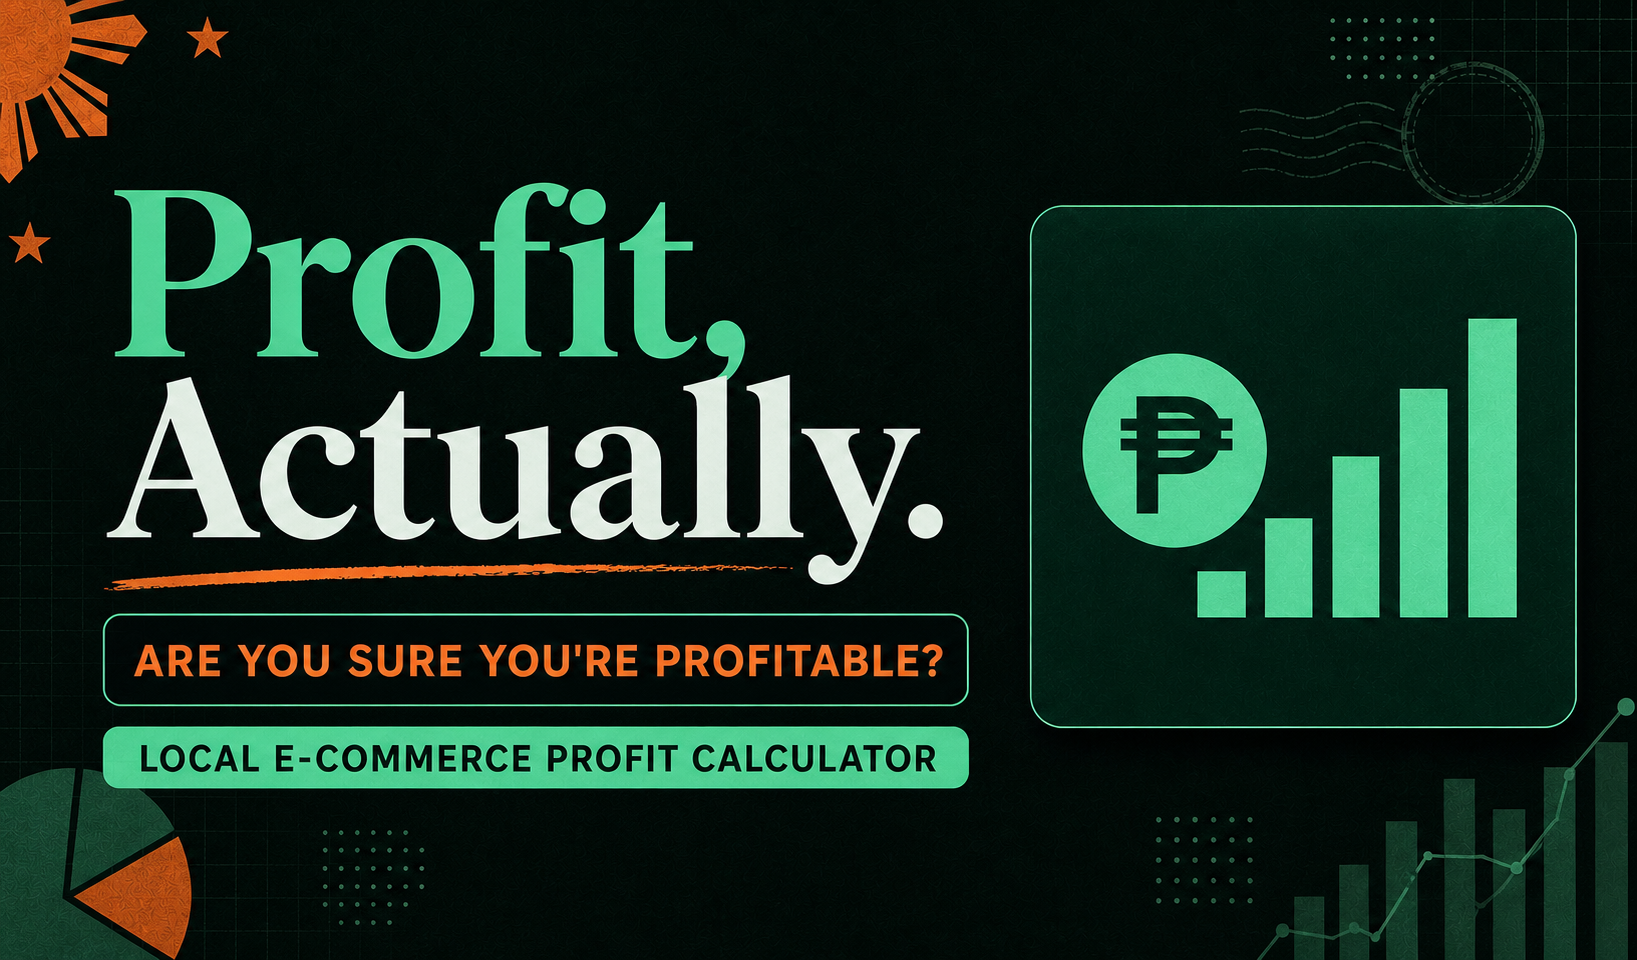
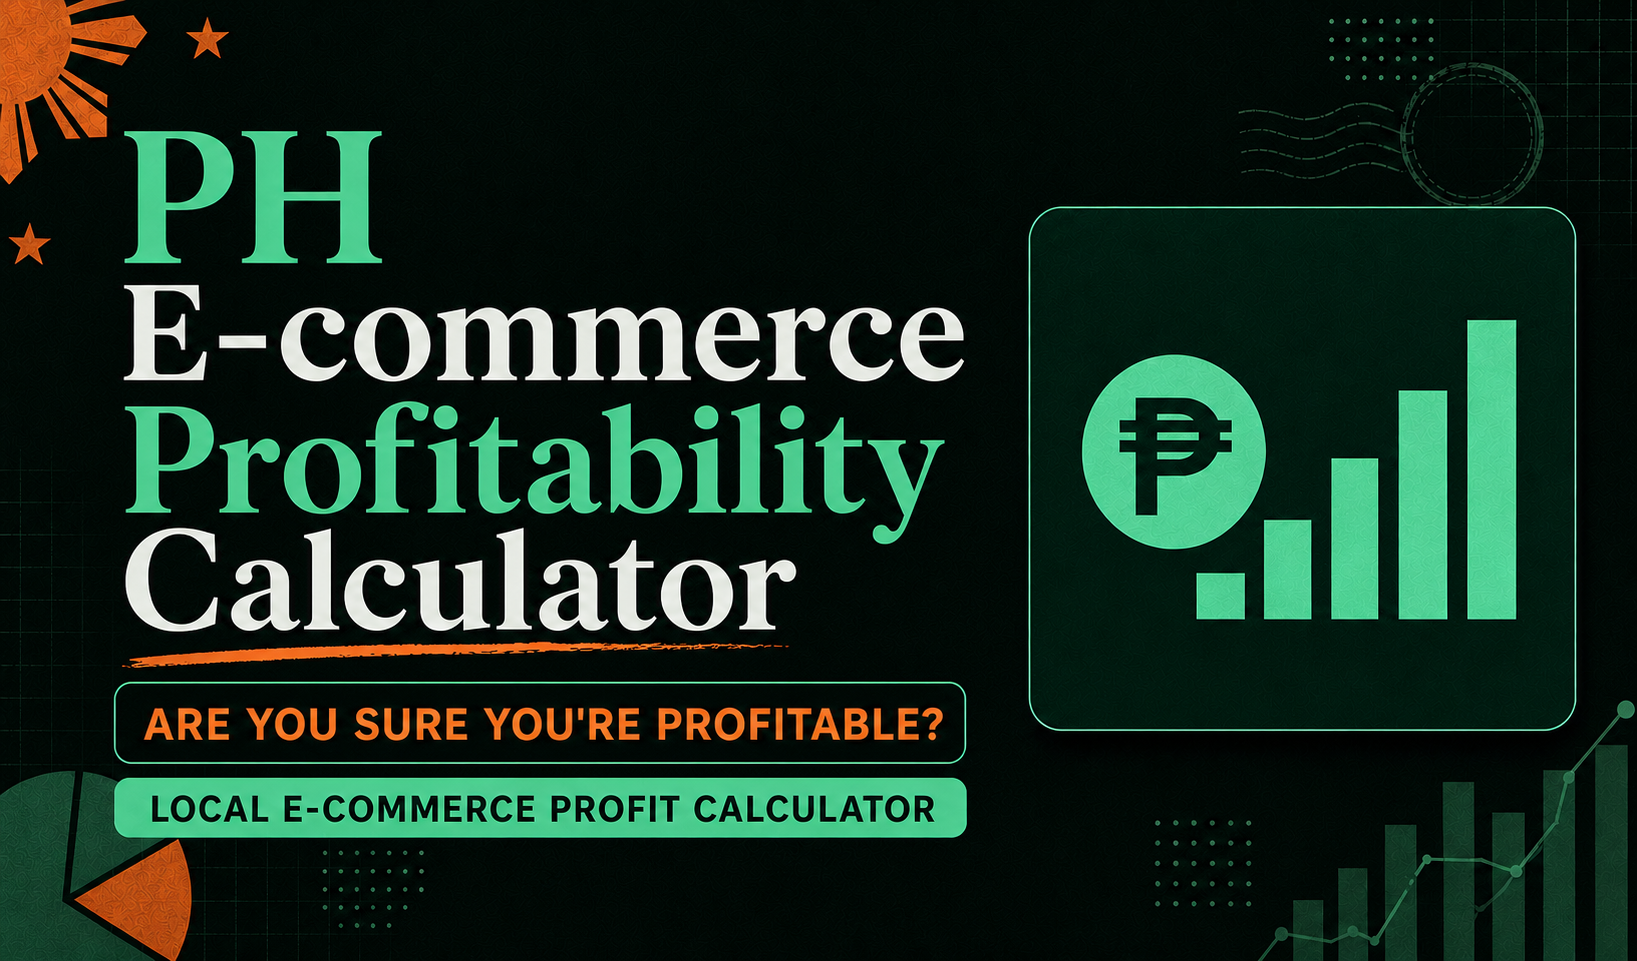
Publish PH e-commerce profitability calculator

diff --git a/public/index.html b/public/index.html
@@ -3,12 +3,12 @@
   <head>
     <meta charset="utf-8" />
     <meta name="viewport" content="width=device-width, initial-scale=1" />
-    <title>Profit, Actually. — Local E-commerce Profit Calculator</title>
+    <title>PH E-commerce Profitability Calculator</title>
     <meta
       name="description"
       content="A quick net income calculator for small Philippine e-commerce businesses, based on COD price, RTS rate, product cost, ad spend, and order volume."
     />
-    <meta property="og:title" content="Profit, Actually. — Are you sure you're profitable?" />
+    <meta property="og:title" content="PH E-commerce Profitability Calculator" />
     <meta property="og:description" content="Your quick local e-commerce profitability calculator." />
     <meta property="og:type" content="website" />
     <meta property="og:image" content="__SITE_ORIGIN__/og.png" />
@@ -19,10 +19,10 @@
   </head>
   <body>
     <header class="site-header">
-      <a class="brand" href="#top" aria-label="Profit, Actually home">
-        <span class="brand-mark" aria-hidden="true">P?</span>
+      <a class="brand" href="#top" aria-label="PH E-commerce Profitability Calculator home">
+        <span class="brand-mark" aria-hidden="true">PH</span>
         <span class="brand-copy">
-          <strong>Profit, Actually.</strong>
+          <strong>PH E-commerce Profitability Calculator</strong>
           <small>Local E-commerce Calculator</small>
         </span>
       </a>
@@ -156,7 +156,7 @@
     </main>
 
     <footer>
-      <div><strong>Profit, Actually.</strong><span>Built for small local e-commerce teams.</span></div>
+      <div><strong>PH E-commerce Profitability Calculator</strong><span>Built for small local e-commerce teams.</span></div>
       <p>Formula based on <strong>calculator sample file.xlsx</strong></p>
     </footer>
   </body>

diff --git a/app/layout.tsx b/app/layout.tsx
@@ -1,7 +1,7 @@
 import type { Metadata } from "next";
 import "./globals.css";
 
-const title = "Profit, Actually. — Local E-commerce Profit Calculator";
+const title = "PH E-commerce Profitability Calculator";
 const description =
   "Your quick local e-commerce profitability calculator.";
 
@@ -12,7 +12,7 @@ export const metadata: Metadata = {
     title,
     description,
     type: "website",
-    images: [{ url: "/og.png", width: 1664, height: 960, alt: "Profit, Actually local e-commerce calculator" }],
+    images: [{ url: "/og.png", width: 1664, height: 960, alt: "PH E-commerce Profitability Calculator" }],
   },
   twitter: {
     card: "summary_large_image",

diff --git a/worker/index.ts b/worker/index.ts
@@ -63,7 +63,7 @@ export default {
       return env.ASSETS.fetch(request);
     }
 
-    return new Response("Profit, Actually. is temporarily unavailable. Please refresh.", {
+    return new Response("PH E-commerce Profitability Calculator is temporarily unavailable. Please refresh.", {
       status: 503,
       headers: {
         "Cache-Control": "no-store",

diff --git a/README.md b/README.md
@@ -1,8 +1,6 @@
-# vinext-starter
+# PH E-commerce Profitability Calculator
 
-A clean full-stack starter running on
-[vinext](https://github.com/cloudflare/vinext), with optional Cloudflare D1 and
-Drizzle support.
+A quick profitability calculator for Philippine e-commerce businesses. It estimates net income from COD price, COD fee, RTS rate, cost of goods, ad spend, and order quantity using the supplied workbook logic.
 
 ## Prerequisites
 